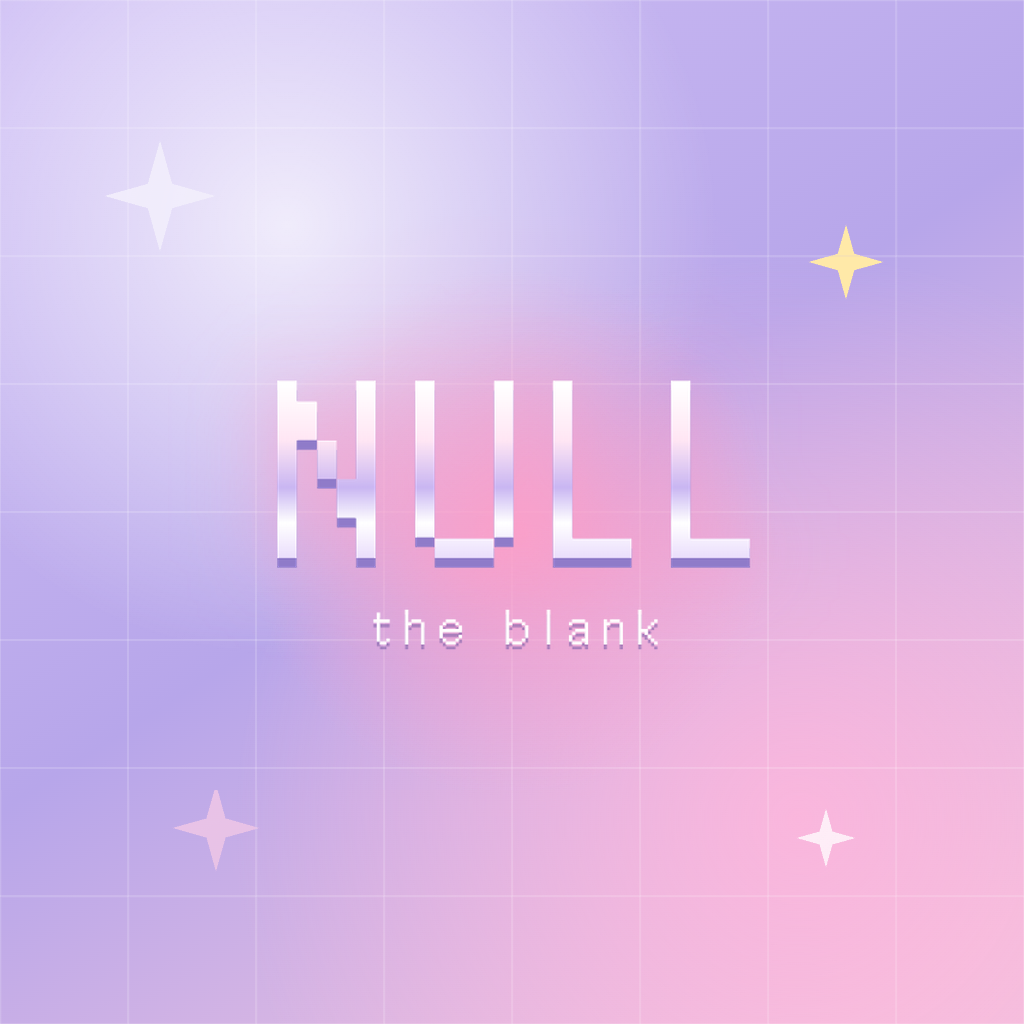
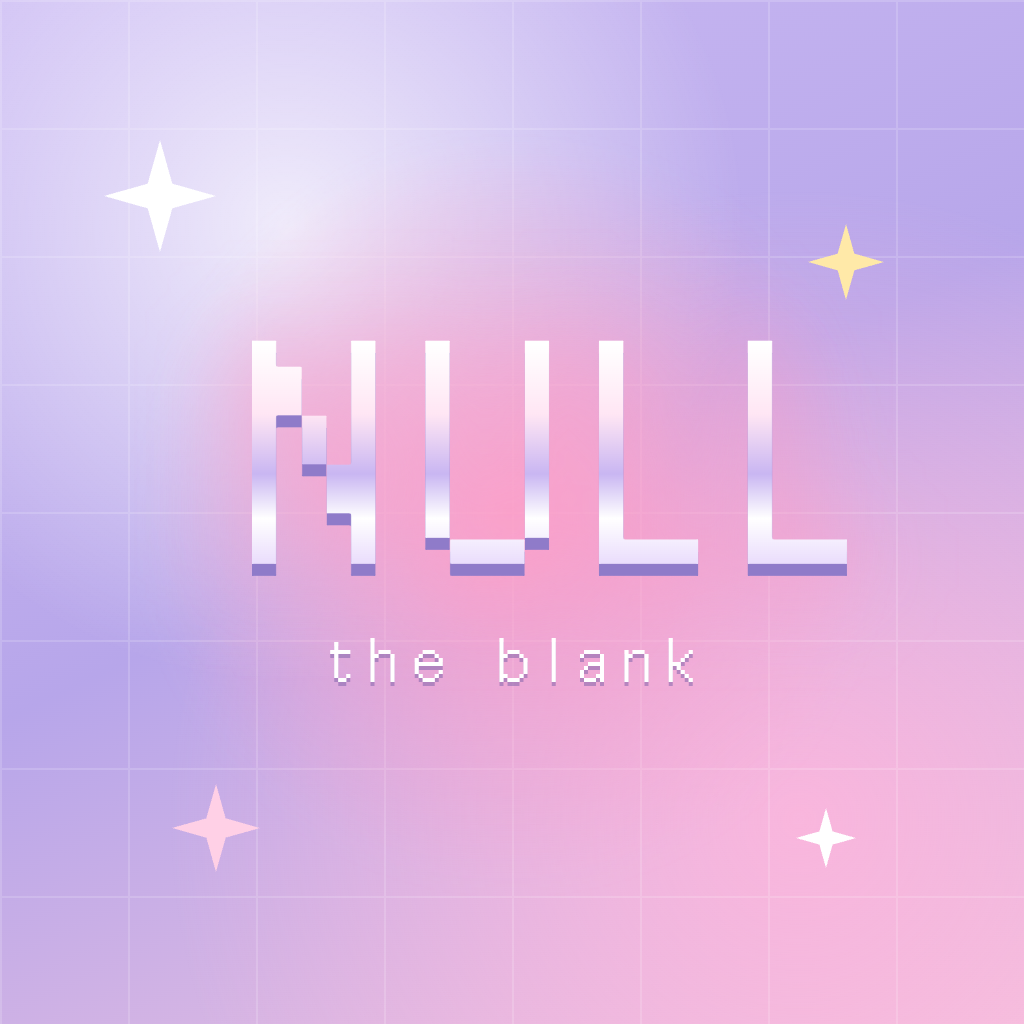
아이콘과 스플래시를 새로 받은 것으로 바꾼다
네 장 다 흰 글자 기준으로 가운데가 맞아 있다. 손대지 않고 그대로
넣었다. 다시 압축만 했다 — 화소는 그대로고 6.2MB에서 3.0MB로 줄었다.

icons-alt는 새로 받은 A·B·C로 갈았다. 내가 그린 셋은 뺐다.

diff --git a/app/assets/icons-alt/README.md b/app/assets/icons-alt/README.md
@@ -2,13 +2,16 @@
 
 지금 쓰는 건 `../icon.png` / `../adaptive-icon.png` / `../adaptive-bg.png` 다.
 아래는 만들어만 두고 안 쓰는 것들 — 바꾸고 싶으면 `../icon.png`에 덮어쓰면 된다.
-전부 1024×1024, 앱 팔레트(#5d5490 · #ff7fae · 라벤더→핑크) 그대로다.
 
 | 파일 | 무엇 |
 |---|---|
-| `blank-cursor.png` | 점선 빈칸 + 커서. 등록 화면의 □□을 그대로 올린 것 |
-| `null-stacked.png` | NULL을 두 줄로 접은 것. 한 줄로 쓰면 홈 화면 크기에서 획이 뭉갠다 |
-| `bubble.png` | 말풍선 + 커서 + 말줄임. 한눈에 메신저인 걸 알린다 |
+| `null-a.png` | 지금 아이콘의 이전 판. 글자가 왼쪽으로 50px 밀려 있다 |
+| `null-b.png` | Y2K 창. NULL이 대화상자 안에 들어 있다 |
+| `null-c.png` | CD. 어두운 배경에 홀로그램 |
 
-안드로이드는 아이콘을 동그랗게 잘라낸다(가운데 66.7%만 보인다). 셋 다 그
-안쪽에 들어오게 그렸다 — 새로 만들 때도 가장자리에 뭘 두면 안 된다.
+안드로이드는 아이콘을 동그랗게 잘라낸다 — 가운데 66.7%만 보이고 나머지는
+버린다. 새로 만들 때 가장자리에 뭘 두면 안 된다.
+
+그리고 가운데는 **흰 글자 기준**으로 맞춘다. 글자에 오른쪽 아래로 빠지는
+그림자가 붙어 있어서, 그림자까지 포함해 가운데를 잡으면 눈에 보이는 글자가
+그림자 폭만큼 왼쪽으로 밀린다. 한 번 그렇게 나갔다.
